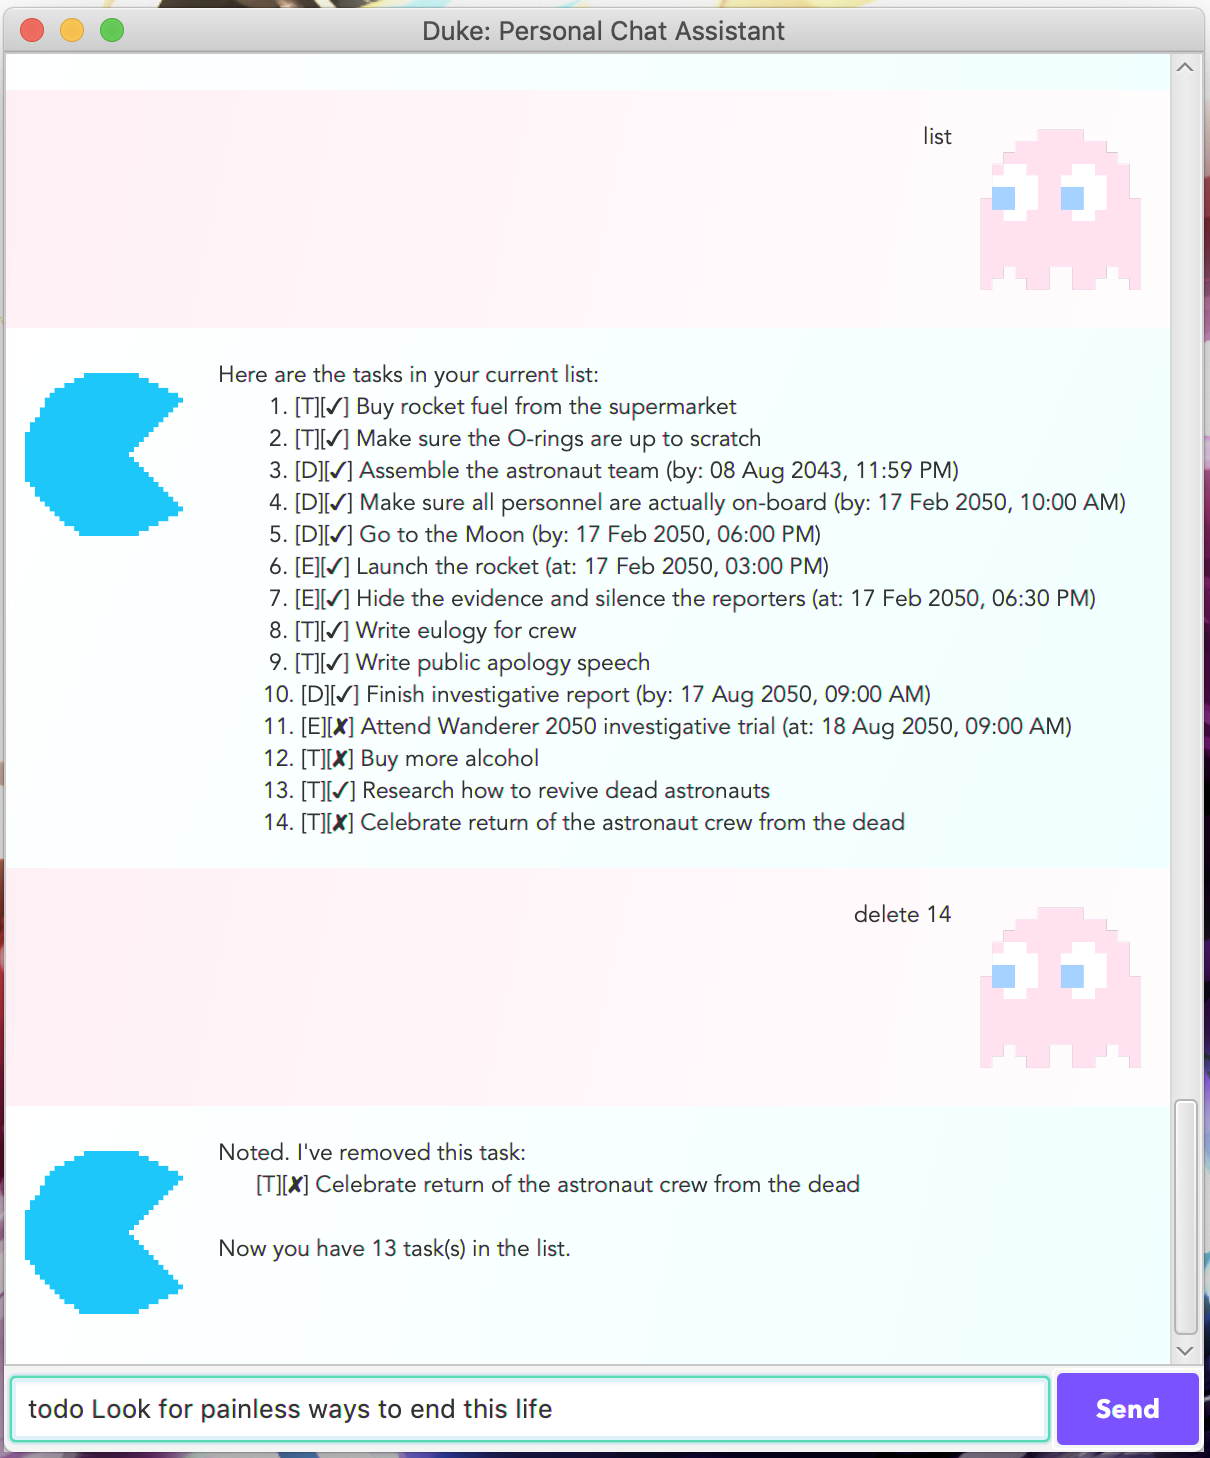
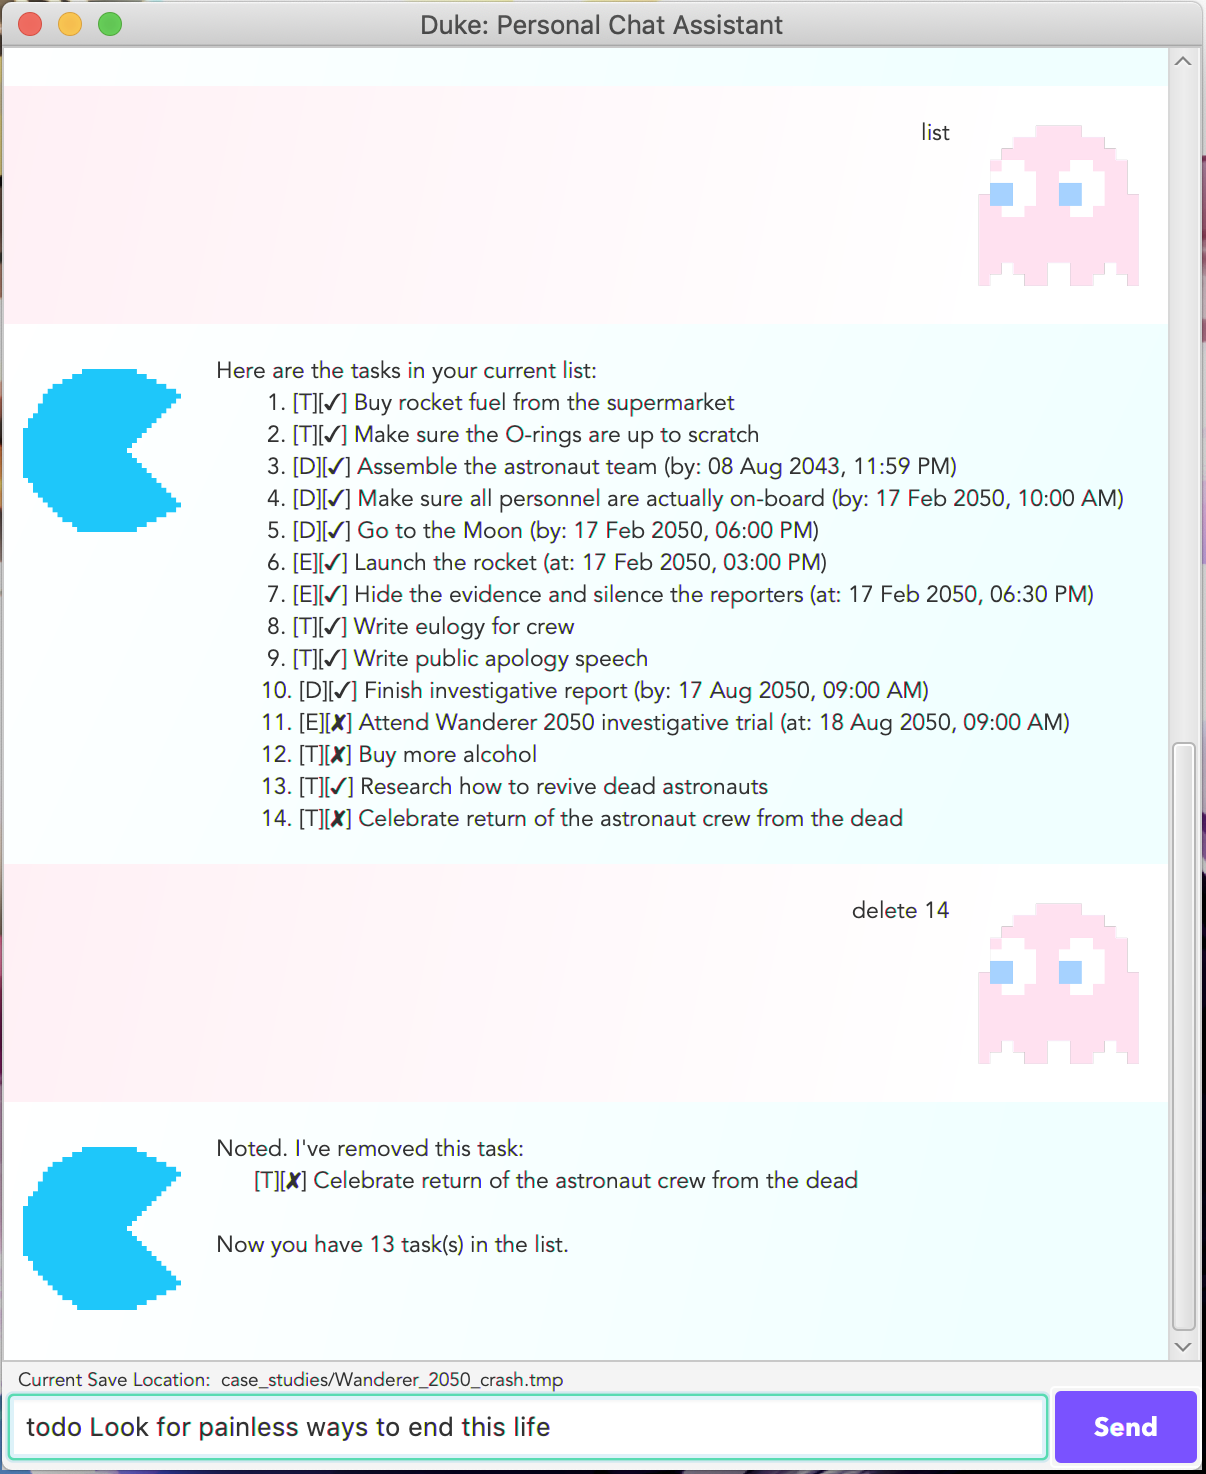
Added bottom status bar. Minor changes to code.

diff --git a/src/main/java/duke/view/MainWindow.java b/src/main/java/duke/view/MainWindow.java
@@ -5,8 +5,8 @@ import duke.exception.DukeShutDownException;
 import duke.util.Ui;
 
 import javafx.fxml.FXML;
-import javafx.geometry.Insets;
 import javafx.scene.control.Button;
+import javafx.scene.control.Label;
 import javafx.scene.control.ScrollPane;
 import javafx.scene.control.TextField;
 import javafx.scene.image.Image;
@@ -14,8 +14,6 @@ import javafx.scene.layout.AnchorPane;
 import javafx.scene.layout.VBox;
 import javafx.application.Platform;
 
-import java.util.Timer;
-import java.util.TimerTask;
 
 /**
  * JavaFX Controller for MainWindow. Provides the layout for the MainWindow,
@@ -32,6 +30,8 @@ public class MainWindow extends AnchorPane {
     private TextField userInput;
     @FXML
     private Button sendButton;
+    @FXML
+    private Label bottomStatusBar;
 
     private Duke duke;
     private Image userImage = new Image(this.getClass().getResourceAsStream("/images/DaUser.png"));
@@ -43,12 +43,12 @@ public class MainWindow extends AnchorPane {
     @FXML
     public void initialize() {
         scrollPane.vvalueProperty().bind(dialogContainer.heightProperty());
-        //scrollPane.setFitToHeight(false);
         dialogContainer.getChildren().add(DialogBox.getDukeDialog(Ui.HELLO, dukeImage));
     }
 
     public void setDuke(Duke d) {
         this.duke = d;
+        this.updateBottomStatus();
     }
 
     /**
@@ -65,19 +65,29 @@ public class MainWindow extends AnchorPane {
         } catch (DukeShutDownException e) {
             this.publishDukeResponse(Ui.GOODBYE);
             this.closeWindowAndExit();
+        } finally {
+            this.updateBottomStatus();
         }
+    }
+
+    // update bottom status bar to display current save location of task list in Duke
+    private void updateBottomStatus() {
+        this.bottomStatusBar.setText("Current Save Location:  "
+                + this.duke.getCurrentSavePath());
     }
 
     // closes duke gracefully. should only be called when a shutdown signal.
     // is received from the ByeCommand
     private void closeWindowAndExit() {
-        new Timer().schedule(new TimerTask() {
-            @Override
-            public void run() {
+        new Thread(() -> {
+            try {
+                Thread.sleep(SHUTDOWN_DELAY);
                 Platform.exit();
                 System.exit(0);
+            } catch (InterruptedException e) {
+                System.err.println(e.getStackTrace());
             }
-        }, SHUTDOWN_DELAY);
+        }).start();
     }
 
     // publishes Duke response to the chat window.

diff --git a/src/main/java/duke/util/Parser.java b/src/main/java/duke/util/Parser.java
@@ -60,8 +60,8 @@ public class Parser {
         case SaveCommand.KEYWORD:
             return Parser.parseSaveCommand(parameters);
         default:
-            throw new DukeException("☹ OOPS!!! I'm sorry, "
-                    + "but I don't know what that means :-(");
+            throw new DukeException("At my current stage, I have no idea what that means."
+                    + "\nMaybe one day I'll know :(");
         }
     }
 
@@ -105,8 +105,8 @@ public class Parser {
         try {
             return new TodoCommand(parameters[1]);
         } catch (IndexOutOfBoundsException e) {
-            throw new DukeException("☹ OOPS!!! The description of a todo task"
-                    + " cannot be empty.", e);
+            throw new DukeException("Hey! You need to give me a description"
+                    + " for a todo task!", e);
         }
     }
 
@@ -118,8 +118,8 @@ public class Parser {
             DateTime at = DateTime.parseString(deadlineParams[1]);
             return new EventCommand(deadlineParams[0], at);
         } catch (IndexOutOfBoundsException e) {
-            throw new DukeException("☹ OOPS!!! You need to give me both description\nAND time"
-                    + " to create an event task.", e);
+            throw new DukeException("Hey! You need to give me both description\nAND time"
+                    + " to create an event task!", e);
         }
     }
 
@@ -131,8 +131,8 @@ public class Parser {
             DateTime by = DateTime.parseString(deadlineParams[1]);
             return new DeadlineCommand(deadlineParams[0], by);
         } catch (IndexOutOfBoundsException e) {
-            throw new DukeException("☹ OOPS!!! You need to give me both description\nAND time"
-                    + " to create a deadline task.", e);
+            throw new DukeException("Hey! You need to give me both description\nAND time"
+                    + " to create a deadline task!", e);
         }
     }
 
@@ -142,7 +142,7 @@ public class Parser {
         try {
             return new FindCommand(parameters[1]);
         } catch (IndexOutOfBoundsException e) {
-            throw new DukeException("Hey! You need to give me a search word to look for!", e);
+            throw new DukeException("I'm not psychic! You need to give me a search word to look for!", e);
         }
     }
 

diff --git a/src/main/java/duke/command/LoadCommand.java b/src/main/java/duke/command/LoadCommand.java
@@ -2,6 +2,7 @@ package duke.command;
 
 import duke.exception.DukeException;
 import duke.task.TaskList;
+import duke.util.Ui;
 
 
 /**
@@ -50,11 +51,15 @@ public class LoadCommand extends Command {
                     + this.filePath + "'\n\n"
                     + (new ListCommand()).initialize(storage, taskList, ui).execute()
                     // remind users that save location was also changed
-                    + "\nNOTE: I will also update the save path to the same location\n"
+                    + "\nNOTE: I will also update the save path to the same location.\n"
                     + "If you want to save to a different location, use the 'save' command!";
         } catch (DukeException e) { // upon failure, revert back to old path
             this.storage.changeSavePath(previousPath);
-            throw e;
+            throw new DukeException("Hmm, I couldn't locate any saved lists in the following file path:\n"
+                    + Ui.INDENT + "'" + this.filePath + "'"
+                    + "\n\nIn any case, I will continue to use the current file path:\n"
+                    + Ui.INDENT + "'" + previousPath + "'",
+                    e);
         }
     }
 }

diff --git a/src/main/java/duke/command/SaveCommand.java b/src/main/java/duke/command/SaveCommand.java
@@ -1,6 +1,7 @@
 package duke.command;
 
 import duke.exception.DukeException;
+import duke.util.Ui;
 
 /**
  * Class representing a command that changes the save file location.
@@ -48,11 +49,11 @@ public class SaveCommand extends Command {
         } catch (DukeException originalError) { // upon failure, revert back to last working path
             this.storage.changeSavePath(previousPath);
             // then continue to pass the exception upwards
-            throw new DukeException("Something went wrong when saving to the new savePath: \n'"
-                    + this.filePath
-                    + "'\n. I'm reverting back to the previous file path used: "
-                    + previousPath
-                    + "'", originalError);
+            throw new DukeException("I'm so sorry! I couldn't save to the following filepath:\n"
+                    + Ui.INDENT + "'" + this.filePath + "'"
+                    + "\n\nI'm reverting back to the previous file path used\n"
+                    + Ui.INDENT + "'" + previousPath + "'",
+                    originalError);
         }
     }
 }

diff --git a/src/main/java/duke/util/Storage.java b/src/main/java/duke/util/Storage.java
@@ -67,7 +67,7 @@ public class Storage {
             this.updateStartupConfig();
         } catch (IOException e) {
             throw new DukeException("I'm so sorry! I had trouble sync-ing the task list"
-                    + "to the disk!\n"
+                    + " to the disk!\n"
                     + "Any changes might not be saved ):", e);
         } catch (ClassNotFoundException e) {
             throw new DukeException("I'm sorry, I couldn't decipher the saved list at:\n"
@@ -95,7 +95,7 @@ public class Storage {
             oos.writeObject(list);
             oos.close();
             this.updateStartupConfig();
-        } catch (IOException e) {
+        } catch (IOException | NullPointerException e) {
             throw new DukeException("I'm so sorry! I had trouble saving the task list"
                     + "to the following path:\n"
                     + this.file.getPath() + "\n"

diff --git a/src/main/java/duke/view/DialogBox.java b/src/main/java/duke/view/DialogBox.java
@@ -58,7 +58,7 @@ public class DialogBox extends HBox {
      */
     public static DialogBox getUserDialog(String text, Image img) {
         var db = new DialogBox(text, img);
-        db.setStyle("-fx-background-color:linear-gradient( from 0% 0% to 120% 120%, lavenderblush, white);");
+        db.setStyle("-fx-background-color:linear-gradient( from 0% 0% to 85% 85%, lavenderblush, white);");
         return db;
     }
 
@@ -72,7 +72,7 @@ public class DialogBox extends HBox {
      */
     public static DialogBox getDukeDialog(String text, Image img) {
         var db = new DialogBox(text, img);
-        db.setStyle("-fx-background-color:linear-gradient( from 0% 0% to 100% 100%, white, azure);");
+        db.setStyle("-fx-background-color:linear-gradient( from 0% 0% to 85% 85%, white, azure);");
         db.flip();
         return db;
     }

diff --git a/src/main/java/duke/Duke.java b/src/main/java/duke/Duke.java
@@ -28,9 +28,17 @@ public class Duke {
         try {
             this.taskList = new TaskList(this.storage.loadFromDisk());
         } catch (DukeException e) {
-            ui.showLoadingError();
             this.taskList = new TaskList();
         }
+    }
+
+    /**
+     * Returns the current save path that Duke is saving its internal state to.
+     *
+     * @return save path stored in the Storage object held by the Duke instance.
+     */
+    public String getCurrentSavePath() {
+        return this.storage.getSavePath();
     }
 
     /**

diff --git a/src/main/java/duke/command/ByeCommand.java b/src/main/java/duke/command/ByeCommand.java
@@ -12,7 +12,9 @@ public class ByeCommand extends Command {
 
     /**
      * Throws a DukeShutDownException, which should be handled by the
-     * main Duke program as it sees fit.
+     * main Duke program as it sees fit. Duke does not initialize shutdown directly
+     * since there may be housekeeping that needs to be fulfilled by the highest-level
+     * caller.
      *
      * @return result feedback of the command to be printed to the user
      */

diff --git a/src/main/java/duke/command/FindCommand.java b/src/main/java/duke/command/FindCommand.java
@@ -38,7 +38,7 @@ public class FindCommand extends Command {
                     + searchWord
                     + "' ...";
         } else {
-            return "Here are the matching tasks in your list:\n"
+            return "Here are all the tasks in your list that matches the query '" + this.searchWord + "':\n"
                     + ui.indentMessage(results.toString());
         }
     }

diff --git a/src/main/java/duke/Main.java b/src/main/java/duke/Main.java
@@ -25,6 +25,7 @@ public class Main extends Application {
             stage.setScene(scene);
             fxmlLoader.<MainWindow>getController().setDuke(duke);
             stage.setTitle("Duke: Personal Chat Assistant");
+            stage.setResizable(true);
             stage.show();
         } catch (IOException e) {
             e.printStackTrace();

diff --git a/docs/README.md b/docs/README.md
@@ -8,7 +8,7 @@ The Duke Chat Assistant is for users who prefer a chat-assistant desktop-based a
 
 ## 2. Quick Start
 1. Ensure you have Java `11` or above installed in your Computer.
-2. Download the latest `duke.jar` link:{repoURL}/releases[here].
+2. Download the latest `.jar` for Duke link:{repoURL}/releases[here].
 3. Copy the file to the folder you want to use as the home folder for Duke.
 4. Double-click the file to start the app. The GUI should appear in a few seconds.
 5. Type a command message in the text box and press enter to send it to Duke
@@ -169,13 +169,13 @@ Format: `bye`
 
 ## 5. Command Summary
 - **Add Todo tasks:** `todo DESCRIPTION_OF_TASK`  
-eg. `todo write eulogy for crew`
+eg. `todo Write eulogy for crew`
 
 - **Add Deadline tasks:** `deadline DESCRIPTION_OF_TASK /by dd/MM/yyyy HHmm`  
-eg. `deadline finish investigative report /by 17/08/2050 0900`
+eg. `deadline Finish investigative report /by 17/08/2050 0900`
 
 - **Add Event tasks:** `event DESCRIPTION_OF_TASK /at dd/MM/yyyy HHmm`  
-eg. `event attend Wanderer 2050 investigative trial /at 18/08/2050 0900`
+eg. `event Attend Wanderer 2050 investigative trial /at 18/08/2050 0900`
 
 - **List:** `list`
 
